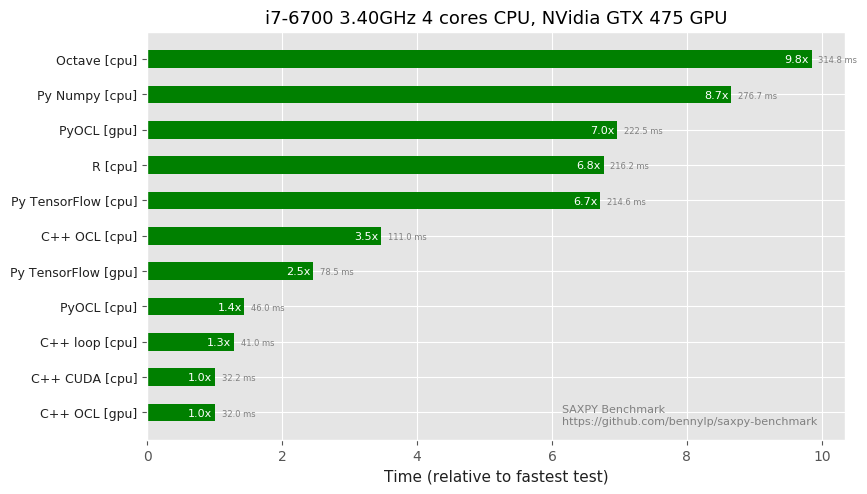
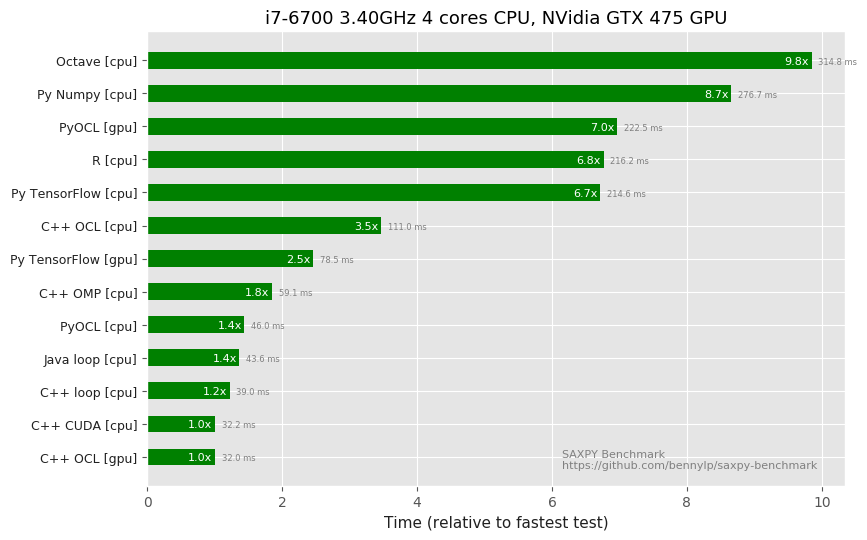
Added OpenMP on Windows

Changed region(s): [[0.0, 0.0, 0.9965, 1.0]]

diff --git a/saxpy_omp.cpp b/saxpy_omp.cpp
@@ -4,25 +4,27 @@
 int main() {
    float *x = new float[N], *y = new float[N];
 
+   int g_num_threads = omp_get_num_threads();
+#pragma omp parallel
    for (int i = 0; i < N; ++i) {
+      int num_threads = omp_get_num_threads();
+      g_num_threads = num_threads;
       x[i] = XVAL;
       y[i] = YVAL;
    }
-
+   std::cout << "Number of threads: " << g_num_threads << std::endl;
    std::cout << "N: " << N << std::endl;
 
    saxpy_timer timer;
-   int g_num_threads = omp_get_num_threads();
 #pragma omp parallel
    {
-      int num_threads = g_num_threads = omp_get_num_threads();
+      int num_threads = omp_get_num_threads();
       for (int i=omp_get_thread_num(); i<N; i+=num_threads)
          y[i] += AVAL * x[i];
    }
 
    auto elapsed = timer.elapsed_msec();
    std::cout << "Elapsed: " << elapsed << " ms\n";
-   std::cout << "Number of threads: " << g_num_threads << std::endl;
 
    saxpy_verify(y);
    delete[] x;

diff --git a/results/create_charts.py b/results/create_charts.py
@@ -14,7 +14,8 @@ known_columns = set(['Python loop [cpu]', 'Py Numpy [cpu]',
                      'PyOCL [cpu]', 'PyOCL [gpu]',
                      'Py TensorFlow [cpu]', 'Py TensorFlow [gpu]',
                      'Octave [cpu]', 'R [cpu]',
-                     'Java loop [cpu]'])
+                     'Java loop [cpu]',
+                     'C++ OMP [cpu]'])
 
 def create_chart(spec, output_md, use_rel=True):
     print('Processing {} "{}"'.format(spec['data'], spec['title']))

diff --git a/results/README.md b/results/README.md
@@ -13,6 +13,7 @@ some statistics with them in the future:
 - C++ CUDA [cpu]
 - C++ OCL [cpu]
 - C++ OCL [gpu]
+- C++ OMP [cpu]
 - C++ loop [cpu]
 - Java loop [cpu]
 - Octave [cpu]
@@ -63,9 +64,11 @@ Submitted by Benny Prijono on 2017-11-14
 | Py TensorFlow [cpu] | 214.564 | 2.450 | 6.71x |
 | C++ OCL [cpu] | 110.983 | 2.128 | 3.47x |
 | Py TensorFlow [gpu] | 78.536 | 0.522 | 2.46x |
+| C++ OMP [cpu] | 59.132 | 27.900 | 1.85x |
 | PyOCL [cpu] | 46.000 | 1.265 | 1.44x |
-| C++ loop [cpu] | 40.979 | 0.943 | 1.28x |
-| C++ CUDA [cpu] | 32.218 | 0.019 | 1.01x |
+| Java loop [cpu] | 43.635 | 4.129 | 1.36x |
+| C++ loop [cpu] | 38.964 | 0.533 | 1.22x |
+| C++ CUDA [cpu] | 32.169 | 0.053 | 1.01x |
 | C++ OCL [gpu] | 31.970 | 0.057 | 1.00x |
 
 
